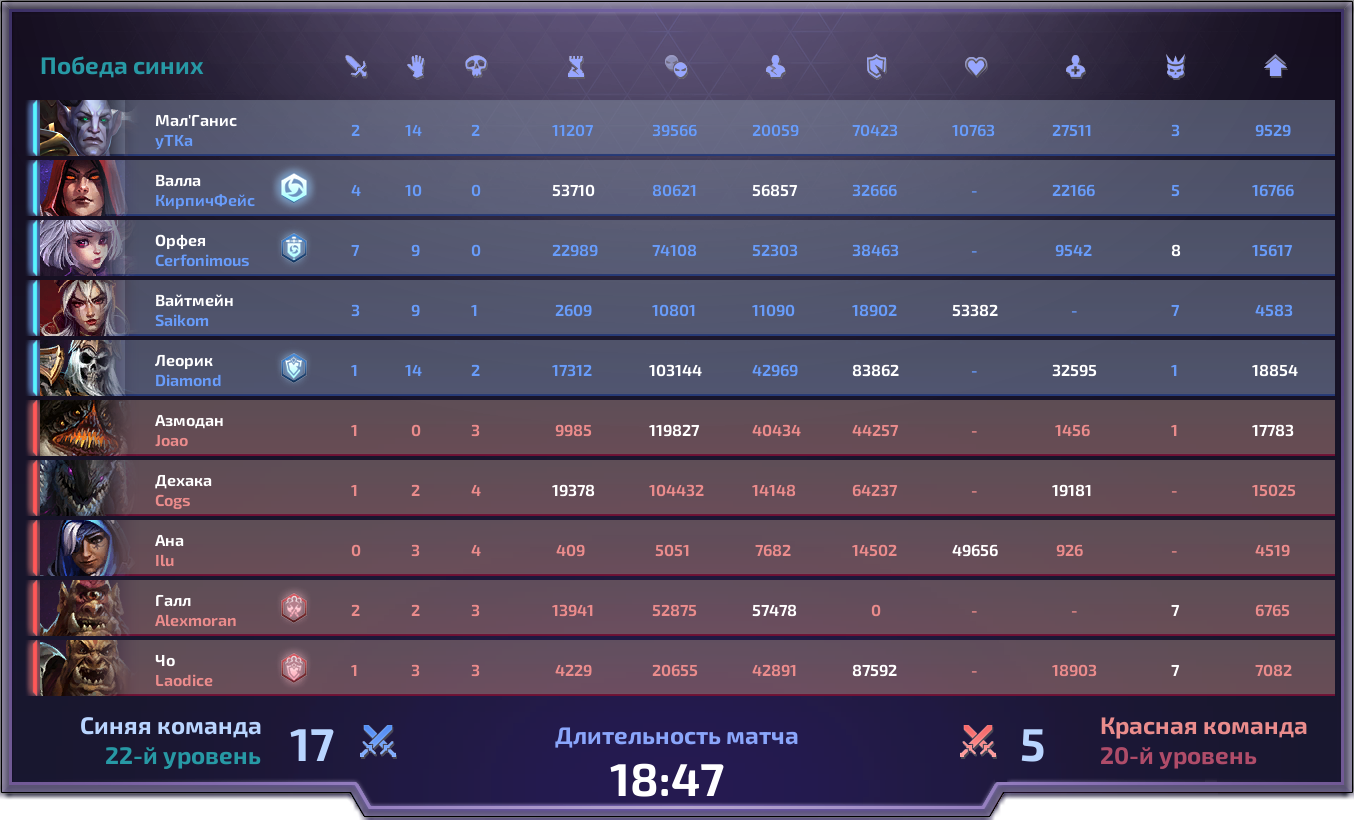
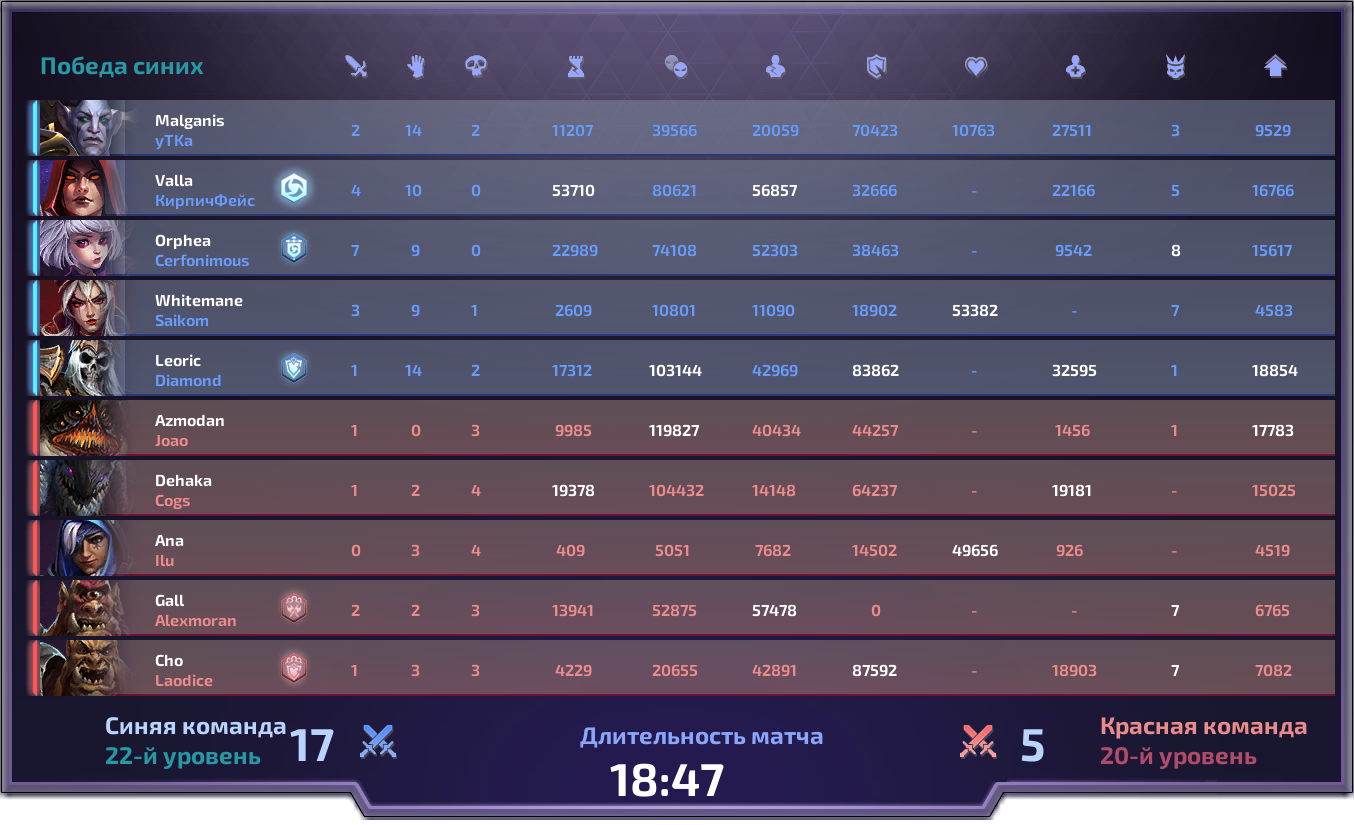
Upload version 0.3.2

diff --git a/score/match.py b/score/match.py
@@ -136,13 +136,14 @@ def add_heroes(image, replay, max_stats):
     red = Image.open(score_files+'red.png')
     rplayer = Image.open(score_files+'playerred.png').convert('RGBA')
     glow = Image.open(score_files+'portrait.png').convert('RGBA')
+    language = httshots.language
 
     add = 100
     rng = 60
 
     for x, player in enumerate(replay.players.values()):
-        hero_name = httshots.heroes['heroes_en'][player.hero].lower()
-        hero = Image.open(heroes_files+hero_name+'.png').convert('RGBA')
+        hero_name = httshots.heroes['heroes_en'][player.hero]
+        hero = Image.open(heroes_files+hero_name.lower()+'.png').convert('RGBA')
 
         draw = ImageDraw.Draw(image)
 
@@ -165,7 +166,14 @@ def add_heroes(image, replay, max_stats):
             color = (234,140,140)
             postfix = 'red'
 
-        draw.text((155, add+(x*rng)+10), httshots.heroes['heroes_short'].get(player.hero, player.hero), (255,255,255), font=font)
+        if 'heroes_'+language in httshots.heroes:
+            hero_short_name = httshots.heroes['heroes_'+language].get(hero_name, hero_name)
+        elif language == 'ru':
+            hero_short_name = httshots.heroes['heroes_short'].get(player.hero, player.hero)
+        else:
+            hero_short_name = hero_name
+
+        draw.text((155, add+(x*rng)+10), hero_short_name, (255,255,255), font=font)
 
         for mvp in httshots.score.mvps:
             if getattr(player, 'award_'+mvp):
@@ -266,6 +274,7 @@ def get_shift(value):
 def add_other_info(image, replay):
     redkills = Image.open(stats_files+'redkills.png')
     bluekills = Image.open(stats_files+'bluekills.png')
+    language = httshots.language
 
     red_kills = 0
     blue_kills = 0
@@ -281,36 +290,45 @@ def add_other_info(image, replay):
     time = player.time
     
     draw = ImageDraw.Draw(image)
-    draw.text((80, 710), 'Синяя команда', (185,213,255), font=large_font)
-    draw.text((105, 740), f"{blue_level}-й уровень", (39,153,165), font=large_font)
+    if language == 'RU':
+        coords = (80, 710)
+    else:
+        coords = (105, 710)
+
+    draw.text(coords, httshots.strings['ImageBlueTeam'], (185,213,255), font=large_font)
+    draw.text((105, 740), httshots.strings('ImageLevelTeam', blue_level), (39,153,165), font=large_font)
     draw.text((290, 715), str(blue_kills), (185,213,255), font=big_font)
     image.paste(bluekills, (360, 725), mask=bluekills)
 
-    draw.text((1350-250, 710), 'Красная команда', (234,140,140), font=large_font)
-    draw.text((1350-250, 740), f"{red_level}-й уровень", (175,76,105), font=large_font)
+    draw.text((1350-250, 710), httshots.strings['ImageRedTeam'], (234,140,140), font=large_font)
+    draw.text((1350-250, 740), httshots.strings('ImageLevelTeam', red_level), (175,76,105), font=large_font)
     draw.text((1350-330, 715), str(red_kills), (185,213,255), font=big_font)
     image.paste(redkills, (1350-390, 725), mask=redkills)
 
-    draw.text((555, 720), 'Длительность матча', (138,166,251), font=large_font)
+    if language == 'RU':
+        coords = (555, 720)
+    else:
+        coords = (580, 720)
+
+    draw.text(coords, httshots.strings['ImageMatchDuration'], (138,166,251), font=large_font)
     draw.text((610, 750), f"{time//60}:{time%60}", (255, 255, 255), font=big_font)
 
     if player.result == 1:
         if player.team_id == 0:
-            text = "Победа синих"
+            text = httshots.strings['ImageBlueWin']
             color = (39,153,165)
         else:
-            text = "Победа красных"
+            text = httshots.strings['ImageRedWin']
             color = (175,76,105)
     else:
         if player.team_id == 0:
-            text = "Победа красных"
+            text = httshots.strings['ImageRedWin']
             color = (175,76,105)
         else:
-            text = "Победа синих"
+            text = httshots.strings['ImageBlueWin']
             color = (39,153,165)
 
     draw.text((40, 50), text, color, font=large_font)
-
 
 
 def upload_image():

diff --git a/httshots.py b/httshots.py
@@ -20,10 +20,12 @@ from httshots import bot, parser, score
 # >> GLOBAL VARIABLES
 # ======================================================================
 __name__ = "HTTSHoTS"
-__version__ = "0.3.1b"
+__version__ = "0.3.2"
 __author__ = "MrMalina"
 
 current_user = getuser()
+
+# default hots folder
 hots_accounts_folder = f"c:\\Users\\{current_user}\\OneDrive\\Documents\\Heroes of the Storm\\Accounts\\"
 if not path.isdir(hots_accounts_folder):
     hots_accounts_folder = f"c:\\Users\\{current_user}\\Documents\\Heroes of the Storm\\Accounts\\"
@@ -32,8 +34,6 @@ icy_url = "https://www.icy-veins.com/heroes/talent-calculator/{}#55.1!{}"
 current_dir = path.dirname(__file__)
 config_data = ConfigObj(current_dir + '\\data\\replay.ini')
 current_date = strftime('%Y-%m-%d')
-accounts = None
-strings = ConfigObj(current_dir + '\\config\\strings.ini')
 config = ConfigObj(current_dir + '\\config\\config.ini')
 data_info = ConfigObj(current_dir + '\\data\\info.ini')
 heroes = ConfigObj(current_dir + '\\data\\heroes.ini')
@@ -42,29 +42,26 @@ log_level = 5
 stream_replays = []
 streak = [0, 0]
 excel_path = current_dir + "\\accounts.xlsx"
+accounts = None
+strings = None
 imgur = None
+language = None
 
 
 # ======================================================================
 # >> Load
 # ======================================================================
 def load():
-    global accounts
+    global accounts, strings, language
     accounts = get_accounts_list(hots_accounts_folder)
-    # for x in accounts:
-        # ...
-        # replay_name = x.replays_path + list(x.replays)[0]
-        # break
-
-    # replay, protocol = parser.get_replay(replay_name)
-    # info = parser.get_match_info(replay, protocol)
+    language = config['LANGUAGE']
+    strings = Strings(current_dir + '\\config\\strings.ini', language)
 
     global imgur
     if config['IMGUR_USE']:
         imgur = ImgurClient(config['IMGUR_CLIENT_ID'], config['IMGUR_CLIENT_SECRET'])
         print_log('ImgurLogin', 1)
     else:
-        imgur = None
         print_log('ImgurNoUsing', 1)
 
     global bot
@@ -110,6 +107,23 @@ def get_end(number, t):
 # ======================================================================
 # >> Classes
 # ======================================================================
+class Strings:
+    def __init__(self, path, lang):
+        strings = ConfigObj(current_dir + '\\config\\strings.ini')
+
+        if lang in strings:
+            self.strings = strings[lang]
+        else:
+            self.strings = strings['ru']
+
+    def __getitem__(self, key):
+        return self.strings.get(key, f"No string '{key}' in strings.ini")
+
+    def __call__(self, key, *args):
+        _str = self.strings.get(key, f"No string '{key}' in strings.ini")
+        return _str.format(*args)
+
+
 class Account:
     def __init__(self, id):
         self.id = id
@@ -154,7 +168,8 @@ class StreamReplay:
         self.short_info = f"{self.info.details.title} - {self.account.hero} - {status}"
 
     def try_find_hero(self, hero_name_part):
-        for player in self.info.players.values():
+        players = self.info.players.values()
+        for player in players:
             if player.hero.lower().startswith(hero_name_part):
                 return player
 
@@ -163,7 +178,7 @@ class StreamReplay:
                 hero_name_part = heroes['heroes_names'][_hero].lower()
                 break
 
-        for player in self.info.players.values():
+        for player in players:
             if player.hero.lower().startswith(hero_name_part):
                 return player
         return None

diff --git a/bot/__init__.py b/bot/__init__.py
@@ -20,8 +20,6 @@ from httshots import httshots
 from . import replays
 
 
-match_heroes = ['герои', 'heroes']
-
 # ======================================================================
 # >> TwitchBot
 # ======================================================================
@@ -152,7 +150,7 @@ class TwitchBot(commands.Bot):
 
         else:
             hero = hero.lower().strip()
-            if hero in match_heroes:
+            if hero in ('heroes', 'герои'):
                 blue = [x.hero for x in _game.info.players.values() if x.team_id == 0]
                 red = [x.hero for x in _game.info.players.values() if x.team_id == 1]
                 text = httshots.strings['GameHeroes'].format(', '.join(blue), ', '.join(red))
@@ -220,9 +218,14 @@ class TwitchBot(commands.Bot):
     @commands.cooldown(rate=1, per=2, bucket=commands.Bucket.channel)
     @commands.command(aliases=("матчи", ))
     async def games(self, ctx: commands.Context):
+        matches = len(httshots.stream_replays)
+        if not matches:
+            text = httshots.strings['GameNotFound']
+            await ctx.send(text)
+            return
+
         wins = len(list(filter(lambda x: x.account.result == 1, httshots.stream_replays)))
         loses = len(list(filter(lambda x: x.account.result == 2, httshots.stream_replays)))
-        matches = len(httshots.stream_replays)
         url_games = httshots.stream_replays[-1].url_games
         if matches == 1:
             win_text = httshots.get_end(wins, 'Wins')

diff --git a/bot/replays.py b/bot/replays.py
@@ -14,6 +14,8 @@ from httshots import httshots
 # >> Functions
 # ======================================================================
 async def start_update_info(replay_name):
+    language = httshots.language
+
     replay, protocol = httshots.parser.get_replay(replay_name)
     info = httshots.parser.get_match_info(replay, protocol)
 
@@ -42,13 +44,16 @@ async def start_update_info(replay_name):
             httshots.streak[0] = 'Loses'
             httshots.streak[1] = 1
 
-    # get gero_name
+    # get hero_name
     status = httshots.strings['GameResult%s'%{1:'Win',2:'Lose'}[int(me.result)]]
-    hero_name = httshots.heroes['heroes_ru'].get(me.hero, None)[2]
-    if hero_name is None:
-        for hero_name in httshots.heroes['heroes_ru']:
-            if hero_name.startswith(me.hero):
-                break
+    if language == 'ru':
+        hero_name = httshots.heroes['heroes_ru'].get(me.hero, None)[2]
+        if hero_name is None:
+            for hero_name in httshots.heroes['heroes_ru']:
+                if hero_name.startswith(me.hero):
+                    break
+    else:
+        hero_name = httshots.heroes[f'heroes_{language}'].get(me.hero, None)
 
     # send match info
 

diff --git a/score/games.py b/score/games.py
@@ -71,7 +71,7 @@ def create_board():
 def create_icons(image):
     draw = ImageDraw.Draw(image)
     draw.text((360, 50), "Карта", (255,255,255), font=font)
-    draw.text((675, 50), "Команда", (255,255,255), font=font)
+    draw.text((675, 50), "Сторона", (255,255,255), font=font)
     draw.text((825, 50), "Результат", (255,255,255), font=font)
     draw.text((975, 50), "Длительность", (255,255,255), font=font)
 
